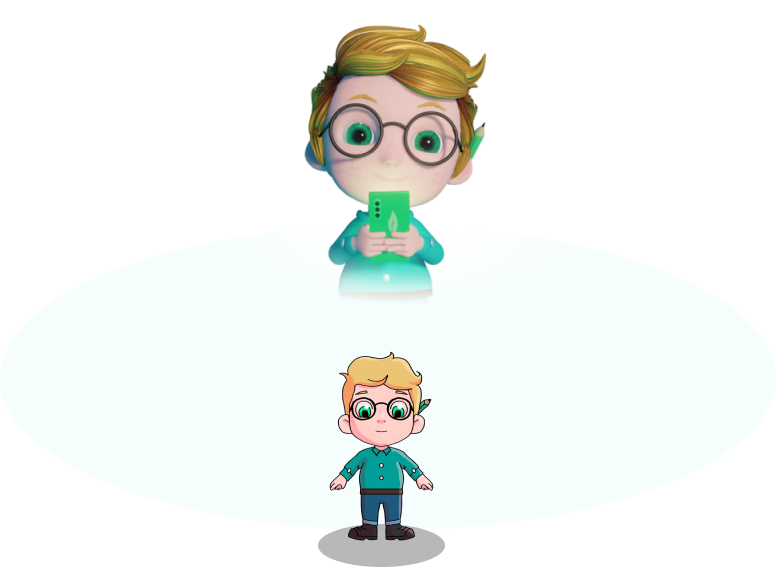
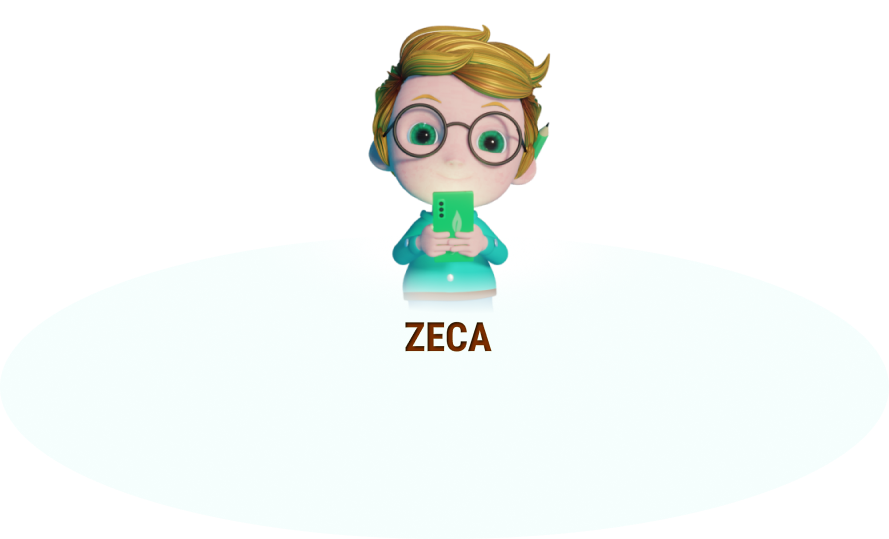
Atualizaçãoo

Changed region(s): [[0.3711, 0.0297, 0.6495, 0.564], [0.4021, 0.5937, 0.5876, 1.0]]

diff --git a/index.html b/index.html
@@ -55,7 +55,7 @@
                 </a>
               </div>
               <div class="carousel-item">
-                <img src="assets/img/personagemzecadegrade.png" class="d-block w-100" alt="Imagem do Zeca">
+                <img src="assets/img/personagemzecadegrade.png"  class="cntro" alt="Imagem do Zeca">
                 <img src="assets/img/botaoconfirmar.png" class="cntro" alt="Confirmar">
               </div>
               <div class="carousel-item">
